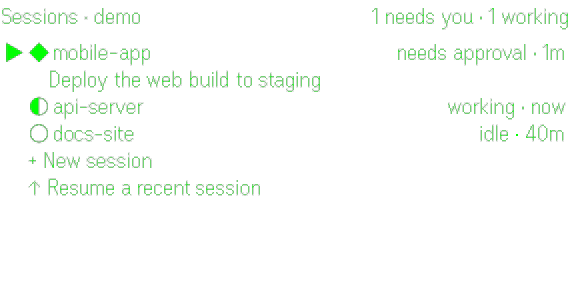
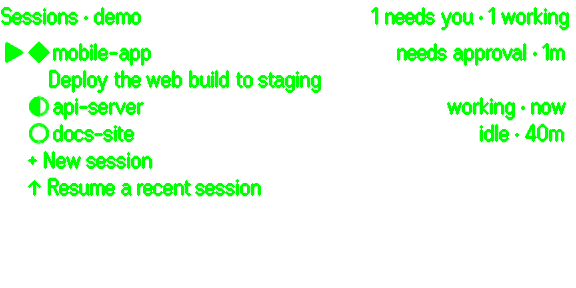
docs: screenshots keep the display green and stay readable on the store's background
Claude-Session: https://claude.ai/code/session_019XP18rFgtEAyq3yykZb23o

diff --git a/docs/store-listing.md b/docs/store-listing.md
@@ -42,9 +42,18 @@ list, a working session, an approval (tap to approve), hold to talk, and the men
 
 **Screenshots:** `docs/screenshots/01-home.png` to `05-menu.png` (576×288, PNG with a
 transparent background). Even Hub rejects solid black backgrounds, because the display
-is see-through: black is the part you look through. Regenerate them from a capture with
-`magick shot.png -alpha off \( +clone -separate -evaluate-sequence max \) -compose copy_opacity -composite out.png`,
-which keeps the text and turns everything black into transparency.
+is see-through: black is the part you look through, and the portal previews the
+screenshot over a blurred room photo. To rebuild them from a black-background capture:
+
+```sh
+magick shot.png -alpha off -separate -evaluate-sequence max \
+  -morphology Dilate Octagon:1 -level 0%,70% mask.png
+magick -size 576x288 xc:"#00FF00" mask.png -alpha off \
+  -compose copy_opacity -composite out.png
+```
+
+The mask carries the text, dilated and brightened a little so the thin strokes stay
+readable against a light background, and the color is the display's green.
 
 **Privacy policy URL:** https://github.com/sousyllc/glancecode/blob/main/docs/privacy.md
 
